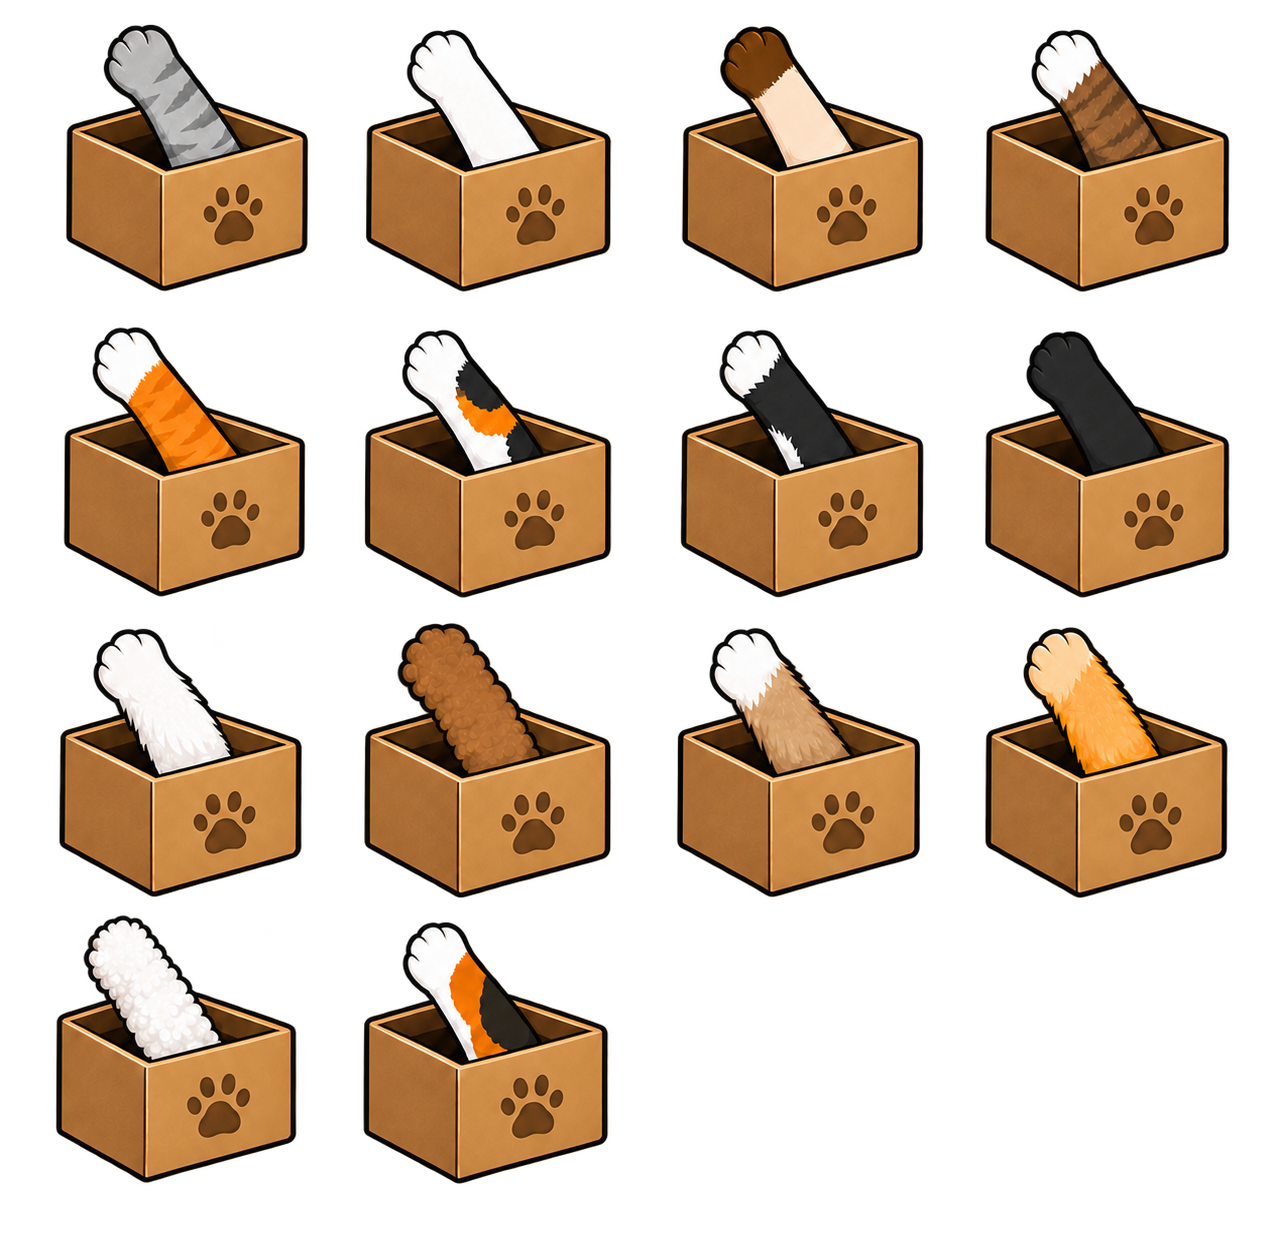
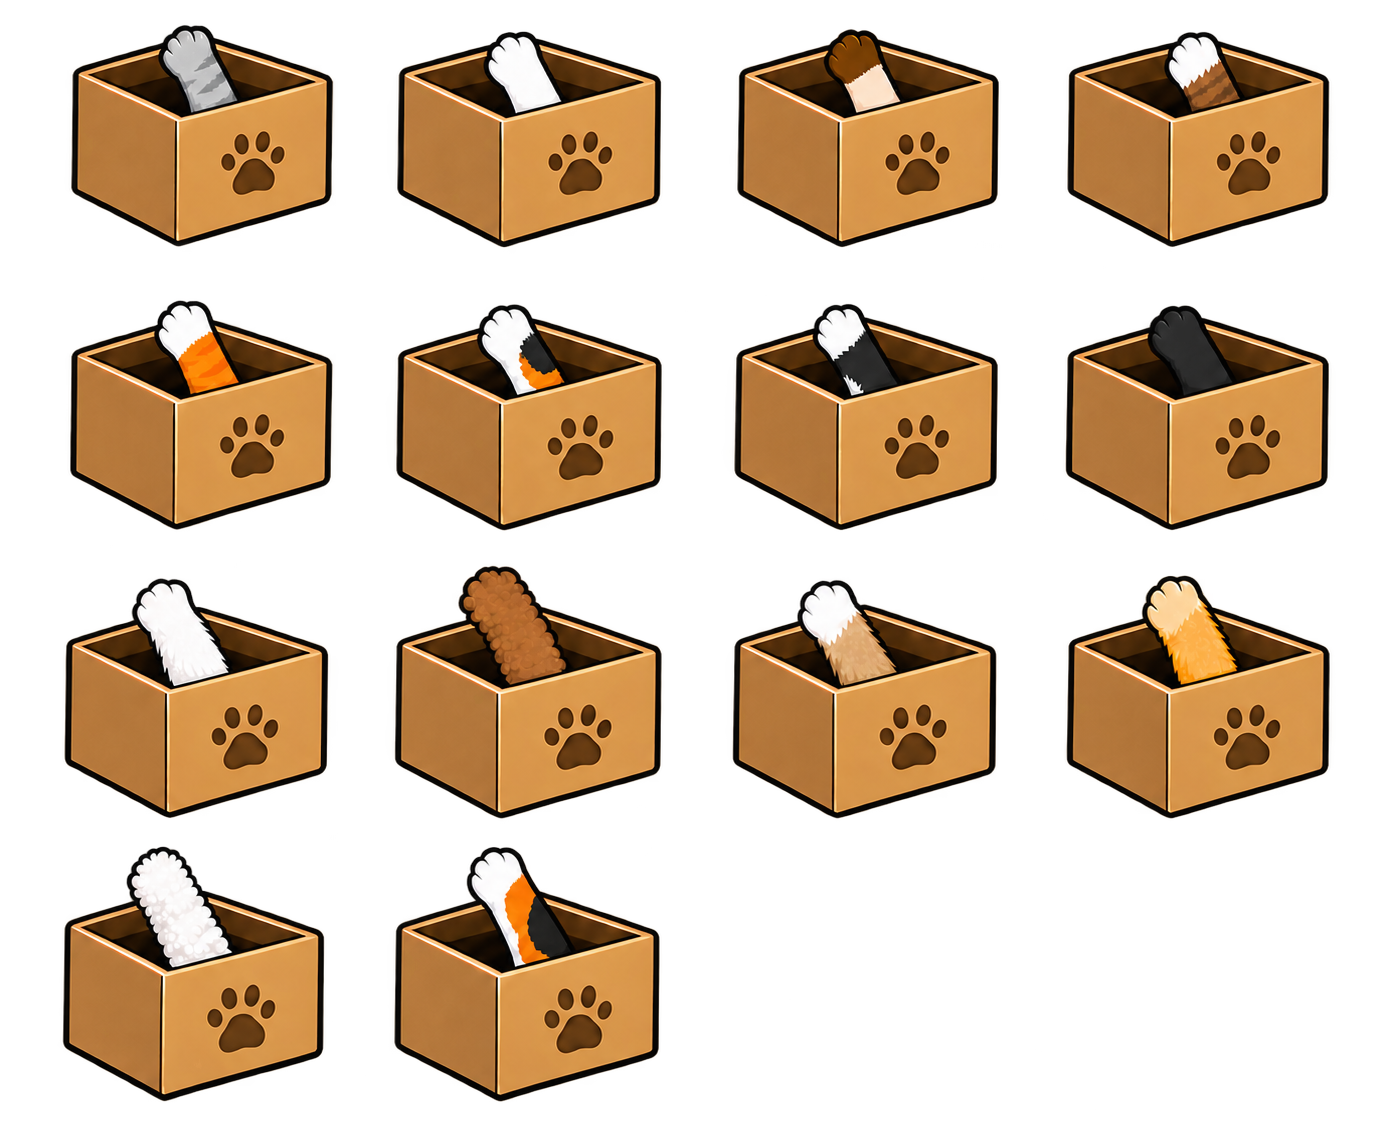
Polish box paws and shared companions

diff --git a/server/share-service.js b/server/share-service.js
@@ -61,6 +61,8 @@ function normalizeSharePayload(value) {
   const mode = CatnyamEngine.normalizeGameMode(value?.m);
   const character = CATALOG.character[value?.c] ? value.c : DEFAULT_CHARACTER;
   const background = CATALOG.background[value?.b] ? value.b : DEFAULT_BACKGROUND;
+  const companionLeft = CATALOG.companion[value?.x] ? value.x : null;
+  const companionRight = CATALOG.companion[value?.y] && value.y !== companionLeft ? value.y : null;
 
   if (value?.v !== LEGACY_SHARE_TOKEN_VERSION || !Number.isInteger(score) || score < 0 || score > MAX_SCORE) {
     return null;
@@ -75,6 +77,8 @@ function normalizeSharePayload(value) {
     overtakenNickname: cleanText(value.o),
     scope: value.q === "daily" ? "daily" : "allTime",
     character,
+    companionLeft,
+    companionRight,
     background,
   };
 }
@@ -89,6 +93,8 @@ function normalizeResolvedPayload(value) {
     o: value?.overtakenNickname,
     q: value?.scope,
     c: value?.character,
+    x: value?.companionLeft,
+    y: value?.companionRight,
     b: value?.background,
   });
 }
@@ -257,7 +263,23 @@ async function getAtlasCell(filePath, item, columns, rows) {
   return image.extract(getAtlasRect(metadata, item, columns, rows));
 }
 
-function createUnderlaySvg() {
+function getShareCompanionLayout(payload) {
+  const companionIds = [payload.companionLeft, payload.companionRight]
+    .filter((companionId, index, values) => CATALOG.companion[companionId] && values.indexOf(companionId) === index);
+  const centers = companionIds.length > 1 ? [310, 420] : [385];
+
+  return companionIds.map((companionId, index) => ({
+    id: companionId,
+    centerX: centers[index],
+    baselineY: 588,
+  }));
+}
+
+function createUnderlaySvg(payload) {
+  const companionShadows = getShareCompanionLayout(payload)
+    .map(({ centerX, baselineY }) => `<ellipse cx="${centerX}" cy="${baselineY}" rx="70" ry="18" fill="#2b2a27" fill-opacity="0.17"/>`)
+    .join("");
+
   return Buffer.from(`
     <svg width="1200" height="630" xmlns="http://www.w3.org/2000/svg">
       <defs>
@@ -268,6 +290,7 @@ function createUnderlaySvg() {
         </linearGradient>
       </defs>
       <rect width="1200" height="630" fill="url(#shade)"/>
+      ${companionShadows}
       <ellipse cx="600" cy="576" rx="205" ry="35" fill="#2b2a27" fill-opacity="0.2"/>
     </svg>
   `);
@@ -346,8 +369,8 @@ function createUiSvg(payload) {
   return Buffer.from(`
     <svg width="1200" height="630" xmlns="http://www.w3.org/2000/svg">
       <rect x="46" y="42" width="390" height="118" rx="22" fill="#fffaf0" stroke="#3b372f" stroke-width="4"/>
-      ${renderPixelText("CAT NYAM", 72, 66, 6, "#2c2925")}
-      ${renderPixelText(modeText, 73, 126, 3, "#e95e83")}
+      ${renderPixelText("CAT NYAM", 241, 66, 6, "#2c2925", "center")}
+      ${renderPixelText(modeText, 241, 126, 3, "#e95e83", "center")}
       ${rankMarkup}
       <rect x="805" y="438" width="347" height="146" rx="25" fill="#fffaf0" stroke="#3b372f" stroke-width="5"/>
       ${renderPixelText("SCORE", 838, 467, 3, "#70685e")}
@@ -363,6 +386,7 @@ async function createShareImage(payload) {
   const backgroundPath = path.join(__dirname, "..", "assets", "background-atlas.png");
   const characterMaskPath = path.join(__dirname, "..", "assets", "character-atlas.png");
   const characterHappyPath = path.join(__dirname, "..", "assets", "character-happy-atlas.png");
+  const companionPath = path.join(__dirname, "..", "assets", "companion-atlas.png");
   const backgroundCell = await getAtlasCell(backgroundPath, backgroundItem, 2, 3);
   const characterHappyCell = await getAtlasCell(characterHappyPath, characterItem, 4, 4);
   const characterMaskCell = await getAtlasCell(characterMaskPath, characterItem, 4, 4);
@@ -389,10 +413,28 @@ async function createShareImage(payload) {
   const characterMetadata = await sharp(characterBuffer).metadata();
   const characterLeft = Math.round(600 - characterMetadata.width / 2);
   const characterTop = Math.round(600 - characterMetadata.height);
+  const companionComposites = [];
+
+  for (const companion of getShareCompanionLayout(payload)) {
+    const companionItem = CATALOG.companion[companion.id];
+    const companionCell = await getAtlasCell(companionPath, companionItem, 3, 2);
+    const companionBuffer = await companionCell
+      .trim()
+      .resize(150, 145, { fit: "inside", withoutEnlargement: false })
+      .png()
+      .toBuffer();
+    const companionMetadata = await sharp(companionBuffer).metadata();
+    companionComposites.push({
+      input: companionBuffer,
+      left: Math.round(companion.centerX - companionMetadata.width / 2),
+      top: Math.round(companion.baselineY - companionMetadata.height),
+    });
+  }
 
   return sharp(backgroundBuffer)
     .composite([
-      { input: createUnderlaySvg(), left: 0, top: 0 },
+      { input: createUnderlaySvg(payload), left: 0, top: 0 },
+      ...companionComposites,
       { input: characterBuffer, left: characterLeft, top: characterTop },
       { input: createUiSvg(payload), left: 0, top: 0 },
     ])

diff --git a/server/shop-catalog.js b/server/shop-catalog.js
@@ -19,11 +19,11 @@ const CATALOG = {
     beagle: { name: "비글", price: 20, col: 1, row: 3 },
   },
   companion: {
-    hamster: { name: "햄스터", price: 50, buff: "좋은 아이템 획득 범위 +30%" },
-    chick: { name: "병아리", price: 50, buff: "시간 아이템 +1초" },
-    sparrow: { name: "참새", price: 50, buff: "이동속도 +8%" },
-    rabbit: { name: "토끼", price: 50, buff: "득점 아이템 +1점" },
-    mole: { name: "두더지", price: 50, buff: "폭탄피하기 시작 목숨 +1" },
+    hamster: { name: "햄스터", price: 50, buff: "좋은 아이템 획득 범위 +30%", col: 0, row: 0 },
+    chick: { name: "병아리", price: 50, buff: "시간 아이템 +1초", col: 1, row: 0 },
+    sparrow: { name: "참새", price: 50, buff: "이동속도 +8%", col: 2, row: 0 },
+    rabbit: { name: "토끼", price: 50, buff: "득점 아이템 +1점", col: 0, row: 1 },
+    mole: { name: "두더지", price: 50, buff: "폭탄피하기 시작 목숨 +1", col: 1, row: 1 },
   },
   background: {
     village: { name: "시골동네", price: 0, col: 0, row: 0 },

diff --git a/api/scores.js b/api/scores.js
@@ -155,6 +155,8 @@ async function resolveShareReference({ sessionId, scope }) {
     overtakenNickname: useRanking ? ranking.overtakenNickname : null,
     scope,
     character: loadout.character,
+    companionLeft: loadout.companionLeft,
+    companionRight: loadout.companionRight,
     background: loadout.background,
   };
 }
